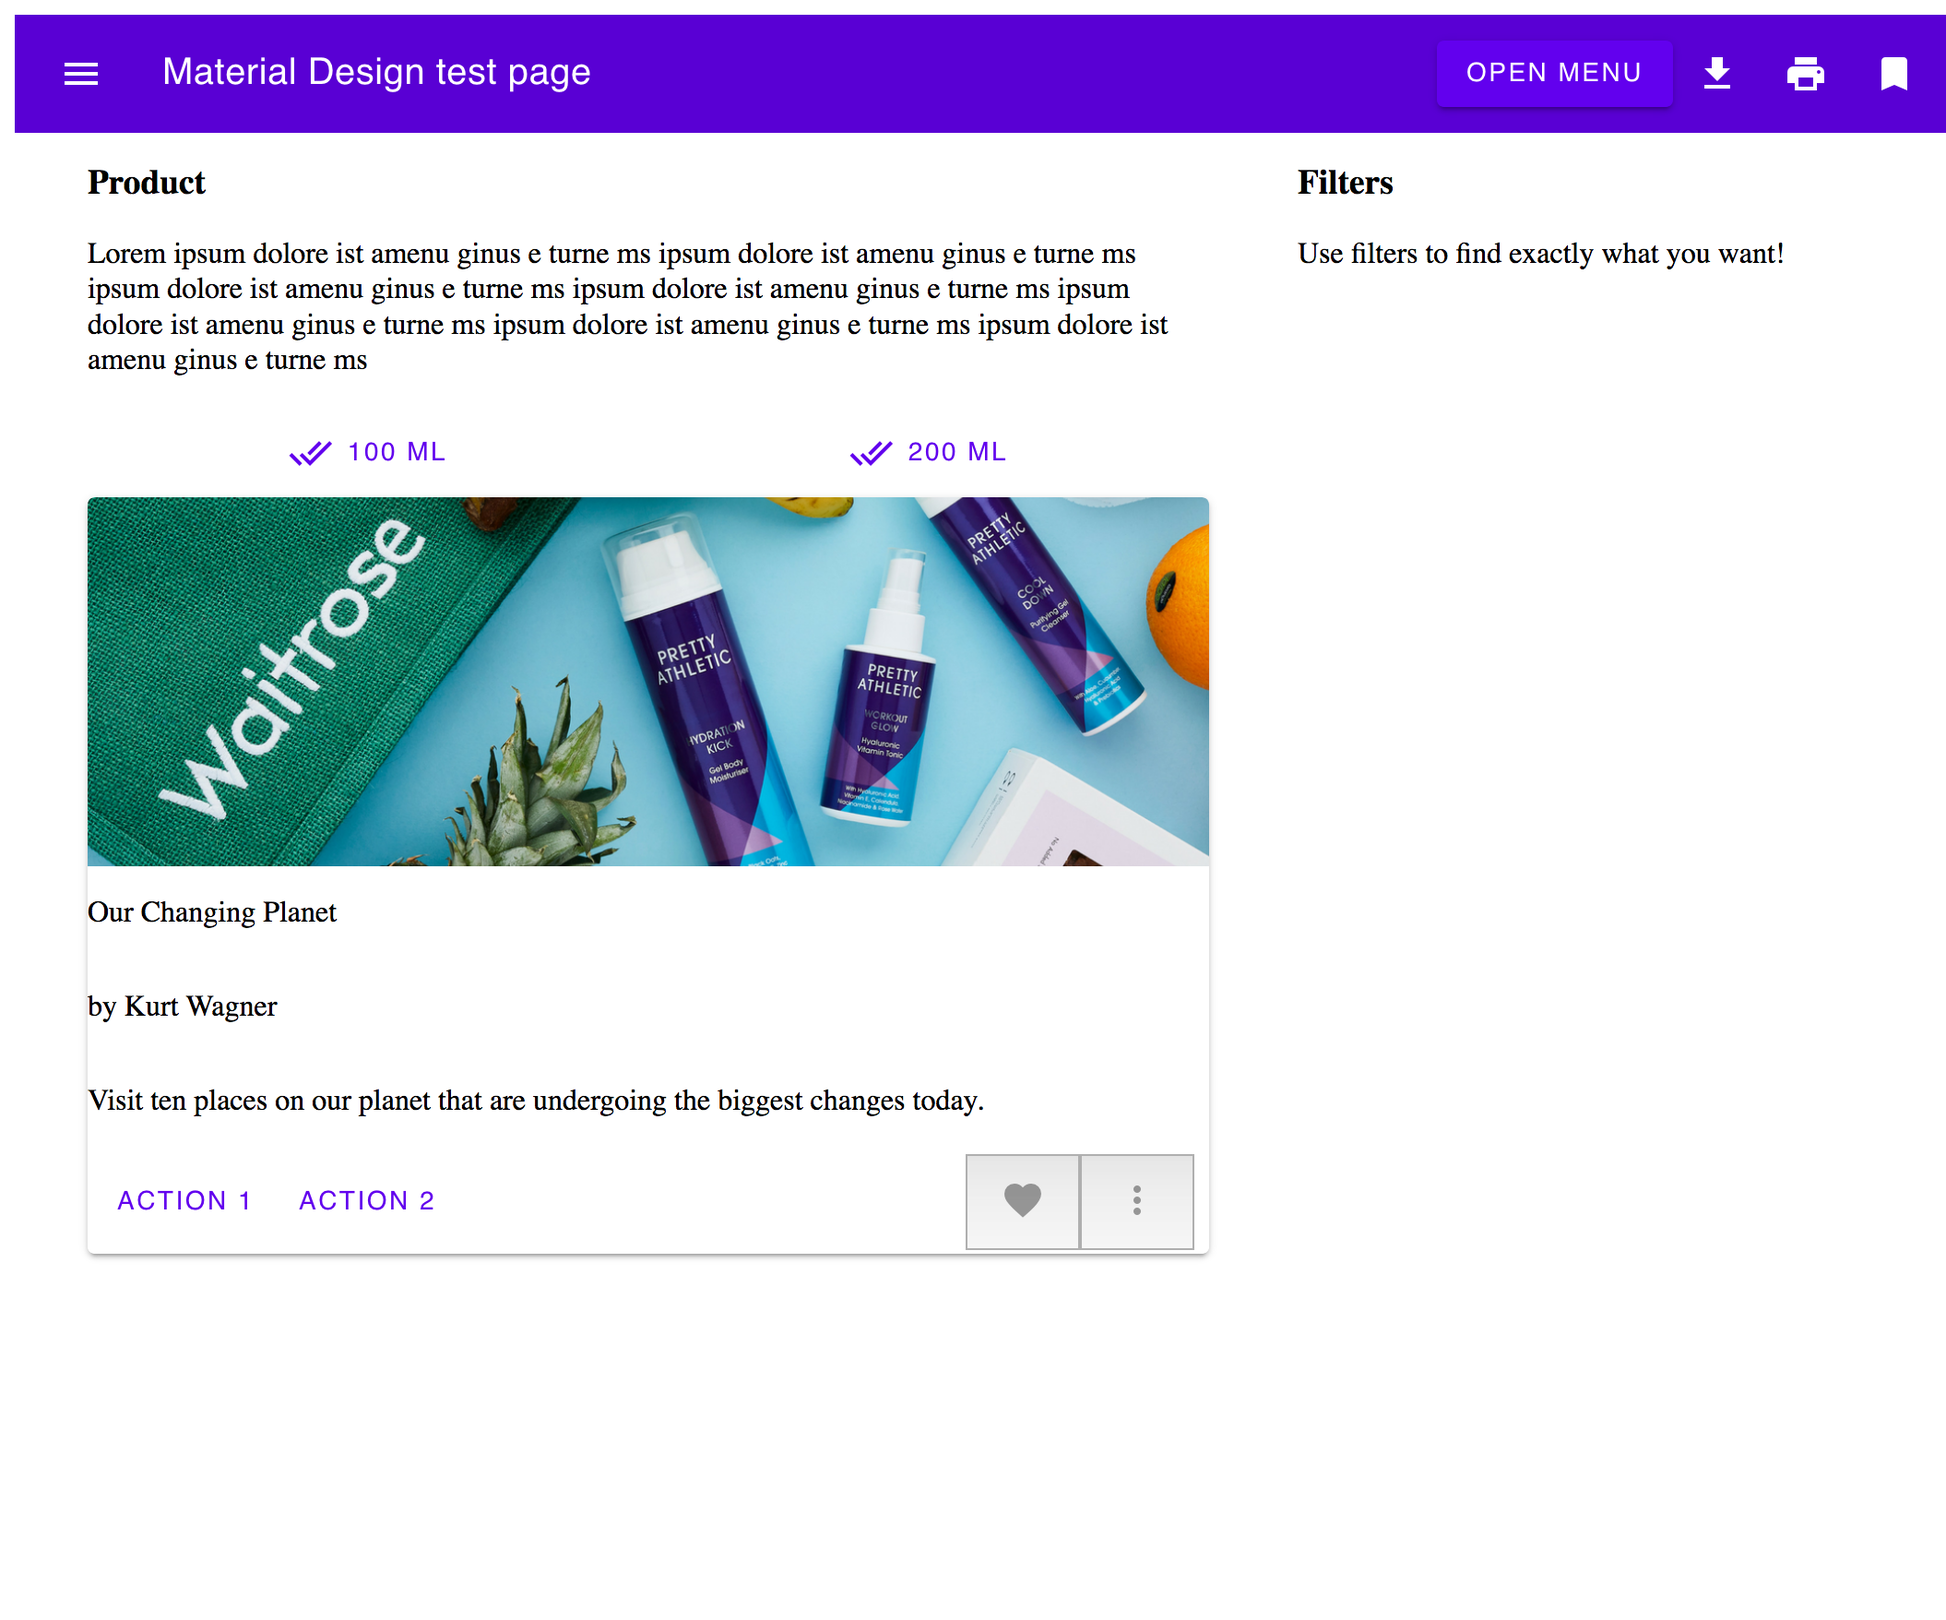
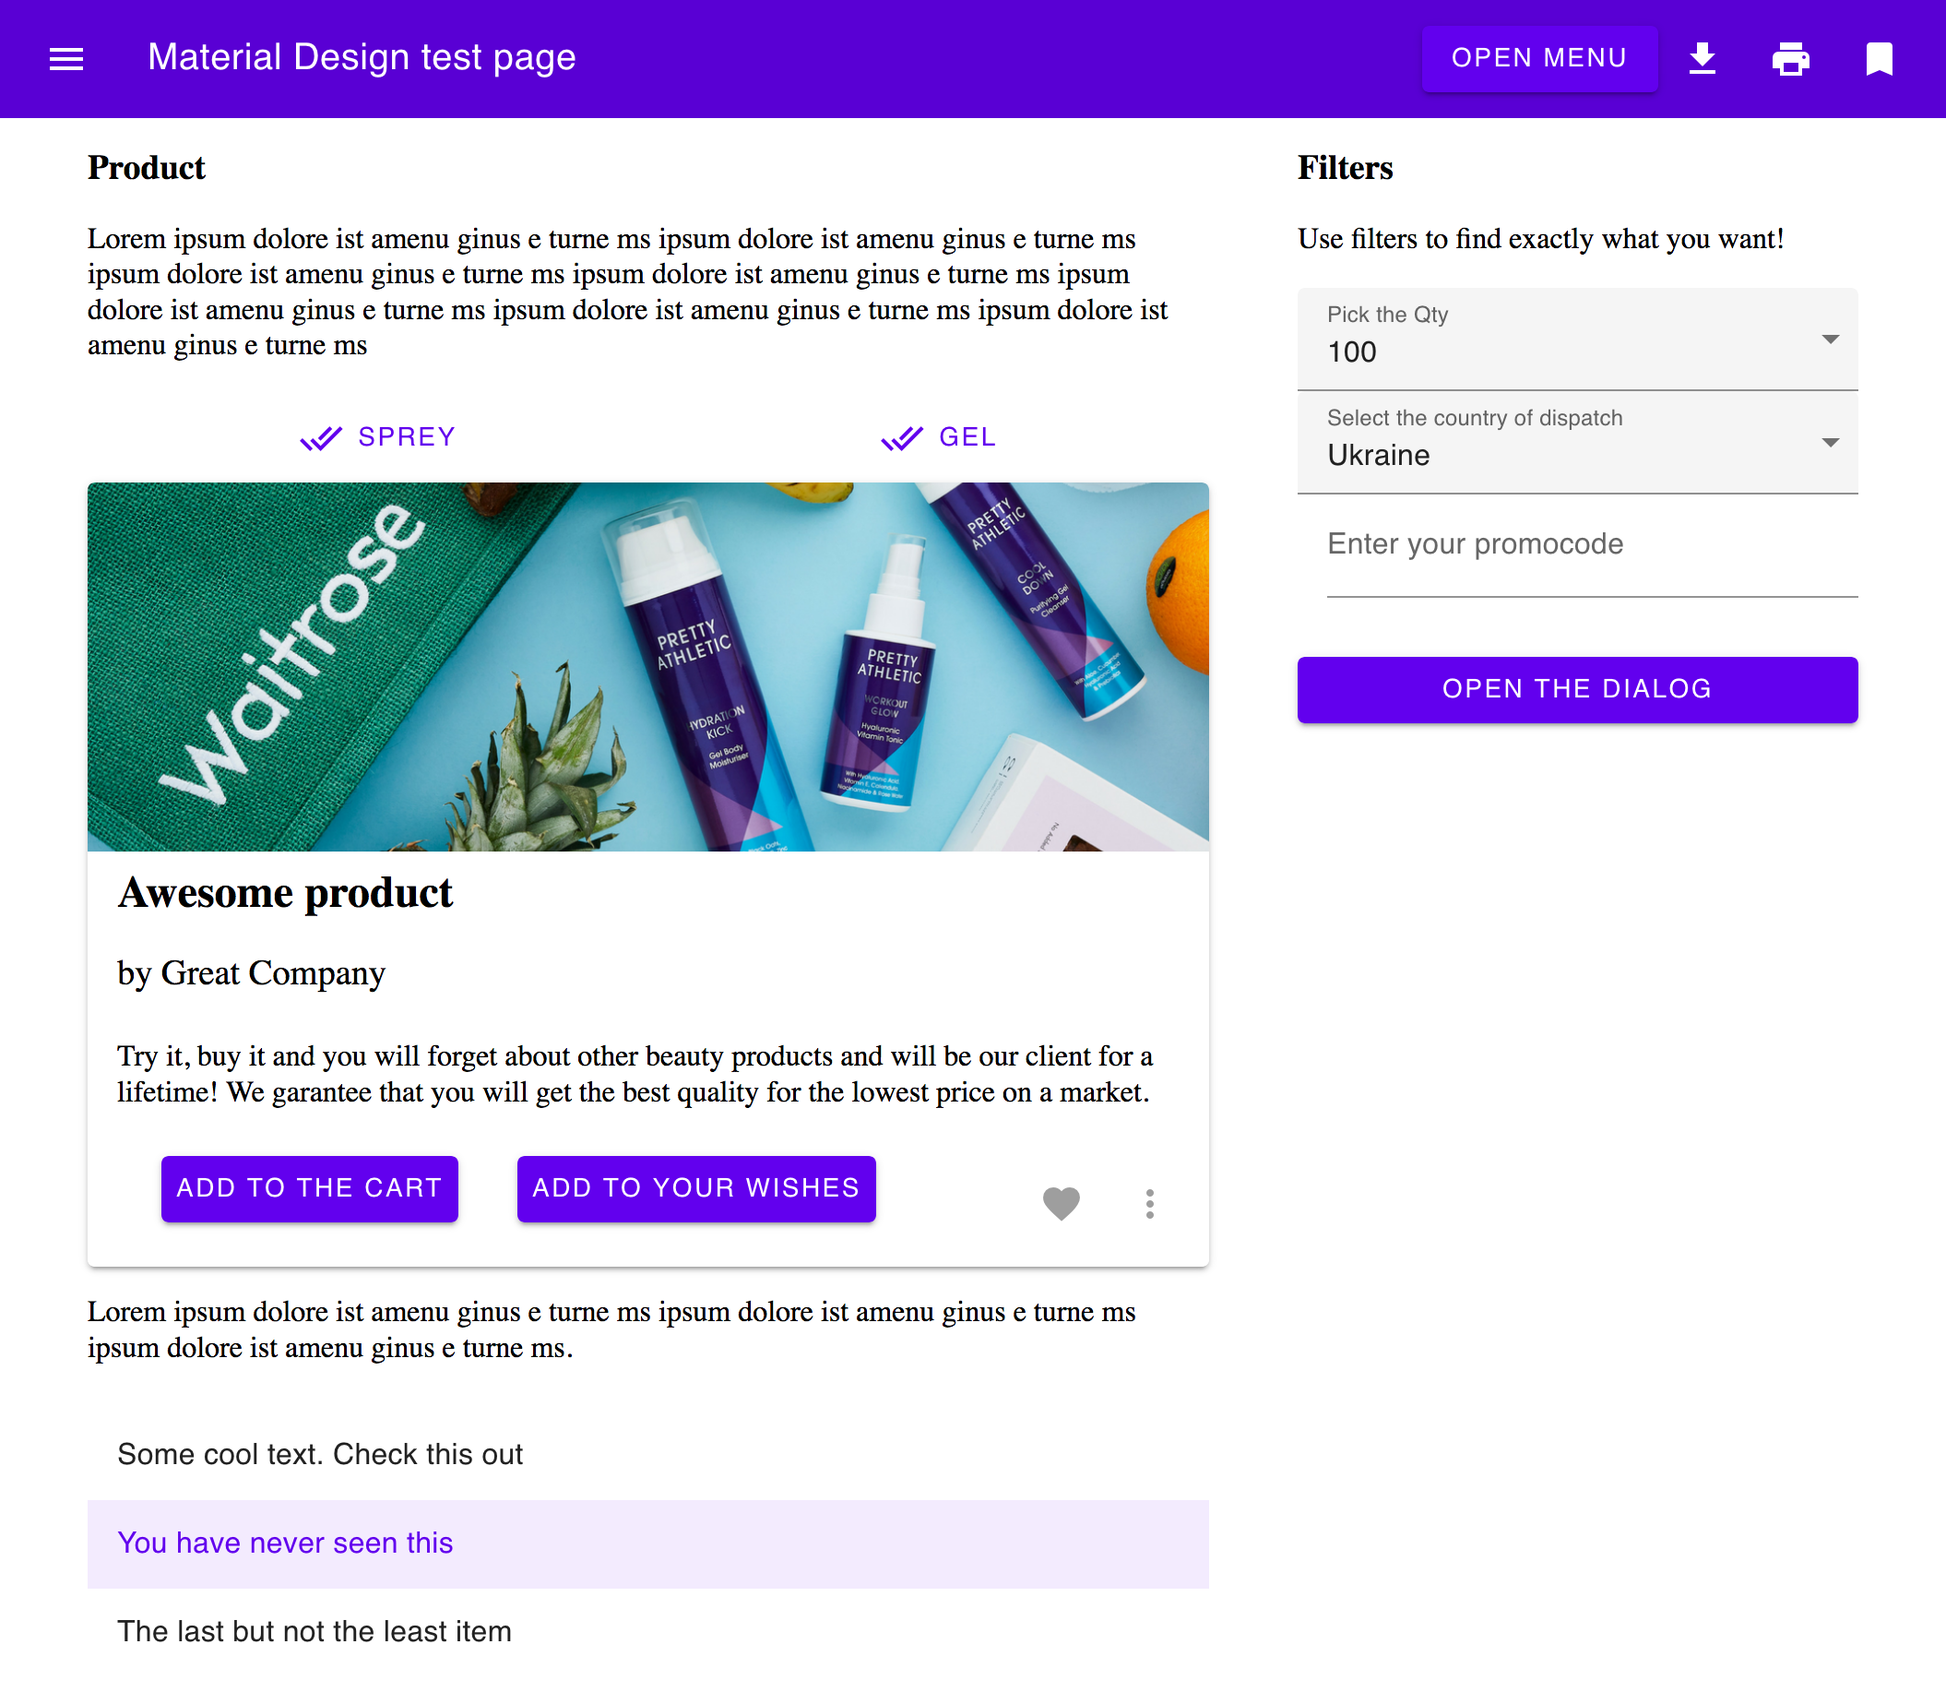
Added final components to the page

diff --git a/src/index.html b/src/index.html
@@ -44,7 +44,8 @@
         <section class="mdc-top-app-bar__section mdc-top-app-bar__section--align-end"
           role="toolbar">
           <div class="mdc-menu-surface--anchor">
-            <button class="mdc-button mdc-button--raised">Open Menu</button>
+            <button class="mdc-button mdc-button-header mdc-button--raised">Open
+              Menu</button>
             <div class="mdc-menu mdc-menu-surface">
               <ul class="mdc-list" role="menu" aria-hidden="true"
                 aria-orientation="vertical">
@@ -80,26 +81,27 @@
           e turne ms ipsum dolore ist amenu ginus e turne ms ipsum dolore ist
           amenu ginus e turne ms ipsum dolore ist amenu
           ginus e turne ms ipsum dolore ist amenu ginus e turne ms</p>
+
         <div class="mdc-tab-bar" role="tablist">
           <div class="mdc-tab-scroller">
             <div class="mdc-tab-scroller__scroll-area">
               <div class="mdc-tab-scroller__scroll-content">
-                <button class="mdc-tab  mdc-tab--active" role="tab"
+                <button class="mdc-tab mdc-tab-first mdc-tab--active" role="tab"
                   aria-selected="true" tabindex="0">
                   <span class="mdc-tab__content">
                     <span class="mdc-tab__icon material-icons" aria-hidden="true">done_all</span>
-                    <span class="mdc-tab__text-label">100 ml</span>
+                    <span class="mdc-tab__text-label">Sprey</span>
                   </span>
                   <span class="mdc-tab-indicator">
                     <span class="mdc-tab-indicator__content mdc-tab-indicator__content--underline"></span>
                   </span>
                   <span class="mdc-tab__ripple"></span>
                 </button>
-                <button class="mdc-tab mdc-tab--active" role="tab"
+                <button class="mdc-tab mdc-tab-second mdc-tab--active" role="tab"
                   aria-selected="true" tabindex="1">
                   <span class="mdc-tab__content">
                     <span class="mdc-tab__icon material-icons" aria-hidden="true">done_all</span>
-                    <span class="mdc-tab__text-label">200 ml</span>
+                    <span class="mdc-tab__text-label">Gel</span>
                   </span>
                   <span class="mdc-tab-indicator">
                     <span class="mdc-tab-indicator__content mdc-tab-indicator__content--underline"></span>
@@ -111,20 +113,24 @@
           </div>
         </div>
 
-        <div class="mdc-card">
-          <div class="mdc-card__media mdc-card__media--square">
+        <div class="mdc-card mdc-card-first">
+          <div class="mdc-card__media mdc-card__media-first mdc-card__media--square">
             <div class="mdc-card__media-content"></div>
           </div>
-          <p>Our Changing Planet</p>
-          <p>by Kurt Wagner</p>
-          <p>Visit ten places on our planet that are undergoing the biggest
-            changes today.</p>
+          <p class="card__title">Awesome product</p>
+          <p class="card__brand">by Great Company</p>
+          <p class="card__description">Try it, buy it and you will forget about
+            other beauty products and will be our client
+            for a lifetime! We garantee that you will get the best quality for
+            the lowest price on a market.</p>
           <div class="mdc-card__actions">
             <div class="mdc-card__action-buttons">
-              <button class="mdc-button mdc-card__action mdc-card__action--button">Action
-                1</button>
-              <button class="mdc-button mdc-card__action mdc-card__action--button">Action
-                2</button>
+              <button class="mdc-button mdc-button-card mdc-button--raised mdc-card__action mdc-card__action--button">ADD
+                TO THE CART
+              </button>
+              <button class="mdc-button mdc-button-card mdc-button--raised smdc-card__action mdc-card__action--button">ADD
+                TO YOUR WISHES
+              </button>
             </div>
             <div class="mdc-card__action-icons">
               <button class="material-icons mdc-icon-button mdc-card__action mdc-card__action--icon"
@@ -135,14 +141,134 @@
           </div>
         </div>
 
+        <div class="mdc-card mdc-card-second mdc-card-hidden">
+          <div class="mdc-card__media mdc-card__media-second mdc-card__media--square">
+            <div class="mdc-card__media-content"></div>
+          </div>
+          <p class="card__title">Gel Antiperspirant</p>
+          <p class="card__brand">by Gillette</p>
+          <p class="card__description">The well-known and effective product for
+            you and your family.</p>
+          <div class="mdc-card__actions">
+            <div class="mdc-card__action-buttons">
+              <button class="mdc-button mdc-button-card mdc-button--raised mdc-card__action mdc-card__action--button">ADD
+                TO THE CART
+              </button>
+              <button class="mdc-button mdc-button-card mdc-button--raised mdc-card__action mdc-card__action--button">ADD
+                TO YOUR WISHES
+              </button>
+            </div>
+            <div class="mdc-card__action-icons">
+              <button class="material-icons mdc-icon-button mdc-card__action mdc-card__action--icon"
+                title="Fave">favorite</button>
+              <button class="material-icons mdc-icon-button mdc-card__action mdc-card__action--icon"
+                title="More options">more_vert</button>
+            </div>
+          </div>
+        </div>
+        <p>Lorem ipsum dolore ist amenu ginus e turne ms ipsum dolore ist amenu
+          ginus e turne ms ipsum dolore ist amenu ginus
+          e turne ms.</p>
       </div>
 
       <div>
         <h3>Filters</h3>
         <p>Use filters to find exactly what you want!</p>
 
+        <div class="select__wrapper">
+
+          <div class="mdc-select">
+            <select class="mdc-select__native-control">
+              <option value="vegetables">
+                1
+              </option>
+              <option value="fruit">
+                10
+              </option>
+              <option value="dairy" selected>
+                100
+              </option>
+            </select>
+            <label class="mdc-floating-label mdc-floating-label--float-above">Pick
+              the Qty</label>
+            <div class="mdc-line-ripple"></div>
+          </div>
+
+          <div class="mdc-select">
+            <select class="mdc-select__native-control">
+              <option value="vegetables">
+                London
+              </option>
+              <option value="fruit">
+                Poland
+              </option>
+              <option value="dairy" selected>
+                Ukraine
+              </option>
+            </select>
+            <label class="mdc-floating-label mdc-floating-label--float-above">Select
+              the country of dispatch</label>
+            <div class="mdc-line-ripple"></div>
+          </div>
+
+          <div class="mdc-text-field text-field-bottom mdc-text-field--fullwidth">
+            <input type="text" placeholder="Enter your promocode" id="my-text-field"
+              class="mdc-text-field__input">
+            <label for="my-text-field"></label>
+            <div class="mdc-line-ripple"></div>
+          </div>
+
+          <div class="mdc-dialog" role="alertdialog" aria-modal="true"
+            aria-labelledby="my-dialog-title" aria-describedby="my-dialog-content">
+            <div class="mdc-dialog__container">
+              <div class="mdc-dialog__surface">
+                <h2 class="mdc-dialog__title" id="my-dialog-title">
+                  Fill the form
+                </h2>
+                <div class="mdc-dialog__content" id="my-dialog-content">
+                  <div class="mdc-text-field mdc-text-field--fullwidth">
+                    <input type="text" placeholder="Enter your name" id="my-text-field"
+                      class="mdc-text-field__input">
+                    <div class="mdc-line-ripple"></div>
+                  </div>
+
+                  <div class="mdc-text-field mdc-text-field--fullwidth">
+                    <input type="text" placeholder="Enter your mobile phone" id="my-text-field"
+                      class="mdc-text-field__input">
+                    <label for="my-text-field">Hint text</label>
+                    <div class="mdc-line-ripple"></div>
+                  </div>
+                  <p>We will call you ;-)</p>
+                </div>
+                <footer class="mdc-dialog__actions">
+                  <button type="button" class="mdc-button mdc-dialog__button"
+                    data-mdc-dialog-action="close">Cancel</button>
+                  <button type="button" class="mdc-button mdc-dialog__button"
+                    data-mdc-dialog-action="accept">Submit</button>
+                </footer>
+              </div>
+            </div>
+            <div class="mdc-dialog__scrim"></div>
+          </div>
+          <button class="mdc-button mdc-button-dialog mdc-button--raised">Open
+            the Dialog</button>
+
+        </div>
+
       </div>
-    </div>
+      <ul id="my-list" class="mdc-list" aria-orientation="vertical">
+        <li class="mdc-list-item">
+          <span class="mdc-list-item__text">Some cool text. Check this out</span>
+        </li>
+        <li class="mdc-list-item mdc-list-item--selected" aria-selected="true"
+          tabindex="0">
+          <span class="mdc-list-item__text">You have never seen this</span>
+        </li>
+        <li class="mdc-list-item">
+          <span class="mdc-list-item__text">The last but not the least item</span>
+        </li>
+      </ul>
+
   </main>
 
   <script src="bundle.js"></script>

diff --git a/src/components/main/card/_card.scss b/src/components/main/card/_card.scss
@@ -1,7 +1,48 @@
 @import "@material/card/mdc-card";
+@import "@material/icon-button/mdc-icon-button";
 
-.mdc-card__media {
+.mdc-card__media-first {
   background-image: url("../assets/img/pretty.png");
   max-height: 200px;
   width: auto;
+}
+
+.mdc-card__media-second {
+  background-image: url("../assets/img/Gillete.png");
+  max-height: 200px;
+  width: auto;
+  background-position: top;
+}
+
+.mdc-card-hidden {
+  display: none;
+}
+
+.card {
+  font-family: url("../assets/fonts/OpenSans.ttf");
+  &__title {
+    font-weight: bold;
+    font-size: 1.5rem;
+    padding-left: 1rem;
+    line-height: 0;
+  }
+
+  &__brand {
+    font-size: 1.2rem;
+    padding-left: 1rem;
+    line-height: 0;
+  }
+
+  &__description {
+    font-size: 1rem;
+    padding-left: 1rem;
+  }
+}
+
+.mdc-button-card {
+  margin: 0 2rem 1rem 2rem;
+}
+
+.material-icons {
+  color: red;
 }

diff --git a/src/components/main/card/card.js b/src/components/main/card/card.js
@@ -1,0 +1,21 @@
+import { MDCRipple } from "@material/ripple";
+import { MDCTabBar } from "@material/tab-bar";
+
+const firstCard = document.querySelector(".mdc-card-first");
+const secondCard = document.querySelector(".mdc-card-second");
+const buttonCardOne = MDCTabBar.attachTo(
+  document.querySelector(".mdc-tab-first")
+);
+const buttonCardTwo = MDCTabBar.attachTo(
+  document.querySelector(".mdc-tab-second")
+);
+
+buttonCardOne.listen("click", () => {
+  firstCard.classList.remove("mdc-card-hidden");
+  secondCard.classList.add("mdc-card-hidden");
+});
+
+buttonCardTwo.listen("click", () => {
+  firstCard.classList.add("mdc-card-hidden");
+  secondCard.classList.remove("mdc-card-hidden");
+});

diff --git a/src/index.scss b/src/index.scss
@@ -6,8 +6,10 @@
 @import "./components/header/menu/menu";
 @import "./components/header/button/button";
 @import "./components/main/tab-bar/tab-bar";
+@import "./components/main/textfield/textfield";
 
 @import "./components/main/main";
 @import "./components/main/list/list";
-@import "./components/main/filters/filters";
+@import "./components/main/select/select";
+@import "./components/main/dialog/dialog";
 @import "./components/main/card/card";

diff --git a/src/index.js b/src/index.js
@@ -4,3 +4,8 @@ import "./components/header/drawer/drawer";
 import "./components/header/menu/menu";
 import "./components/header/button/button";
 import "./components/main/tab-bar/tab-bar";
+import "./components/main/card/card";
+import "./components/main/textfield/textfield";
+import "./components/main/dialog/dialog";
+// import "./components/main/select/select";
+import "./components/main/list/list";

diff --git a/src/components/main/dialog/dialog.js b/src/components/main/dialog/dialog.js
@@ -1,0 +1,14 @@
+import { MDCDialog } from "@material/dialog";
+import { MDCRipple } from "@material/ripple";
+
+const dialog = new MDCDialog(document.querySelector(".mdc-dialog"));
+console.log(dialog);
+
+const buttonDialog = MDCRipple.attachTo(
+  document.querySelector(".mdc-button-dialog")
+);
+console.log(buttonDialog);
+
+buttonDialog.listen("click", () => {
+  dialog.open();
+});

diff --git a/src/components/header/button/button.js b/src/components/header/button/button.js
@@ -1,7 +1,9 @@
 import { MDCRipple } from "@material/ripple";
 import { MDCMenu } from "@material/menu";
 
-const buttonRipple = MDCRipple.attachTo(document.querySelector(".mdc-button"));
+const buttonRipple = MDCRipple.attachTo(
+  document.querySelector(".mdc-button-header")
+);
 
 const menu = new MDCMenu(document.querySelector(".mdc-menu"));
 

diff --git a/src/components/header/button/button.scss b/src/components/header/button/button.scss
@@ -1,13 +1,1 @@
 @import "@material/button/mdc-button";
-
-// @mixin mdc-button-container-fill-color {
-//   $color: yellow;
-// }
-
-// $mdc-theme-primary: teal;
-
-// .mdc-button {
-//   @include mdc-button-container-fill-color(teal);
-// }
-
-// @include mdc-button-container-fill-color(teal);

diff --git a/src/components/main/select/select.js b/src/components/main/select/select.js
@@ -1,0 +1,8 @@
+const select = new mdc.select.MDCSelect(document.querySelector(".mdc-select"));
+select.listen("change", () => {
+  alert(
+    `Selected option at index ${select.selectedIndex} with value "${
+      select.value
+    }"`
+  );
+});

diff --git a/src/components/main/textfield/textfield.js b/src/components/main/textfield/textfield.js
@@ -1,0 +1,3 @@
+import { MDCTextField } from "@material/textfield";
+
+const textField = new MDCTextField(document.querySelector(".mdc-text-field"));

diff --git a/src/components/main/list/list.js b/src/components/main/list/list.js
@@ -1,0 +1,3 @@
+// var listEle = document.getElementById("my-list");
+// var list = new mdc.list.MDCList(listEle);
+// list.singleSelection = true;

diff --git a/src/components/main/select/_select.scss b/src/components/main/select/_select.scss
@@ -1,0 +1,8 @@
+@import "@material/select/mdc-select";
+
+.select {
+  &__wrapper {
+    display: flex;
+    flex-direction: column;
+  }
+}
